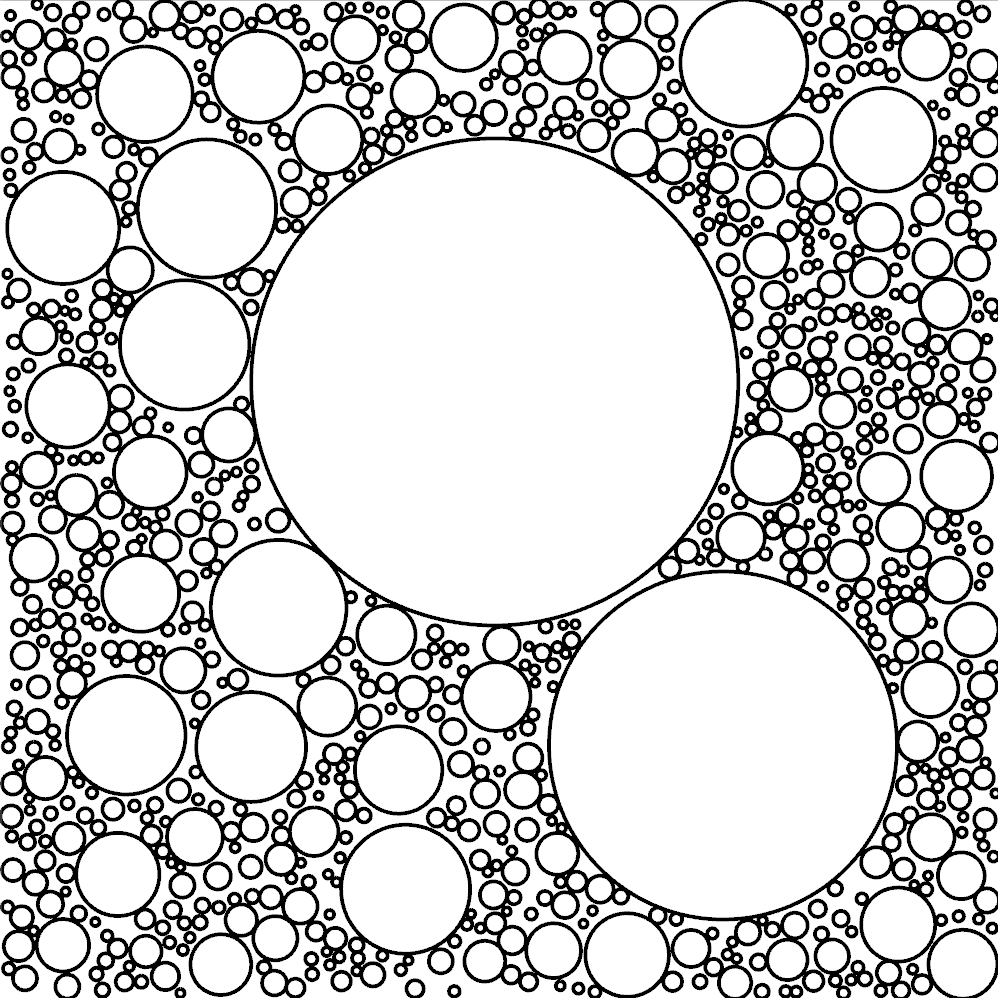
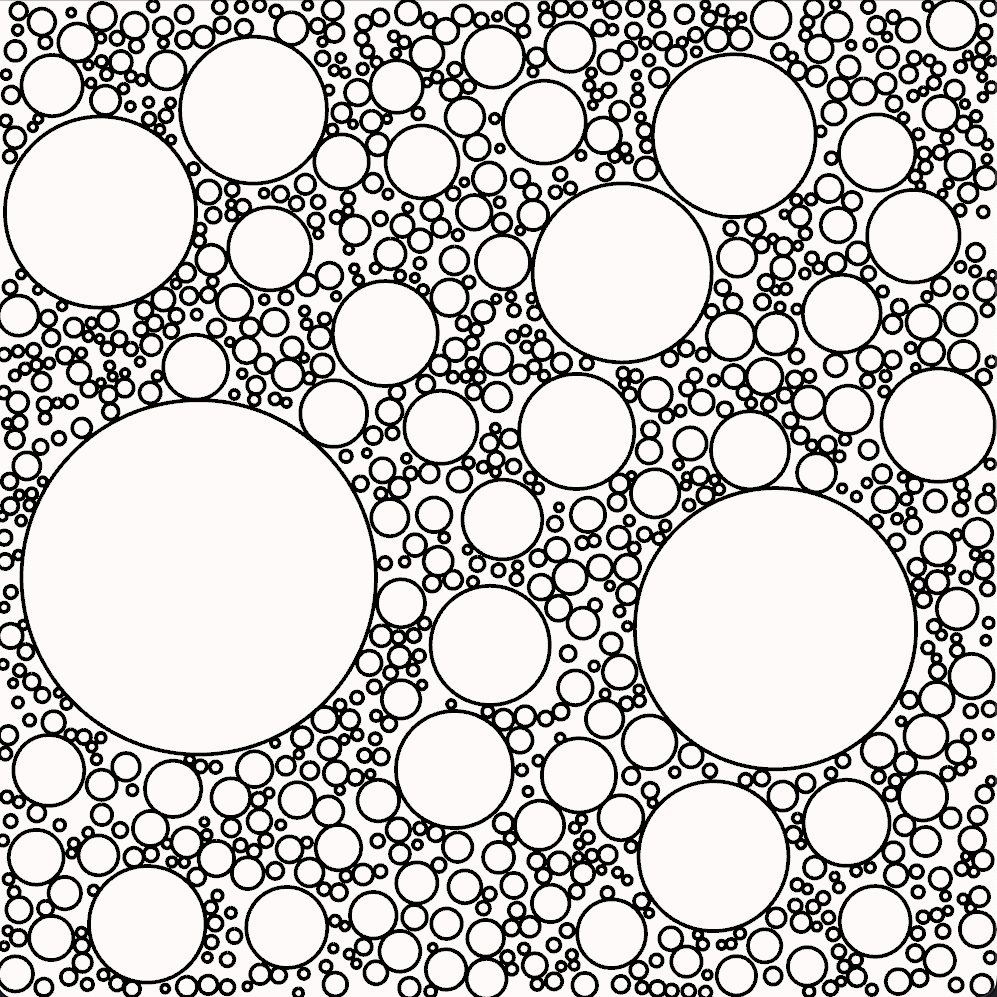
change background color in circle packing

diff --git a/circle_packing/src/main.rs b/circle_packing/src/main.rs
@@ -58,7 +58,7 @@ fn view(app: &App, _model: &Model, frame: Frame) {
     let window = app.window_rect();
     let draw = app.draw();
 
-    draw.background().color(WHITE);
+    draw.background().color(SNOW);
 
     let mut circles = Vec::<Circle>::with_capacity(N_CIRCLES);
 
